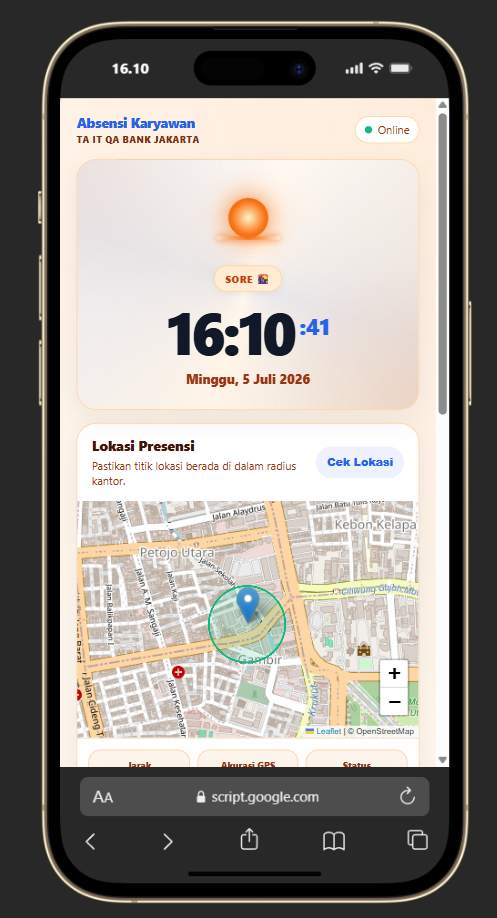
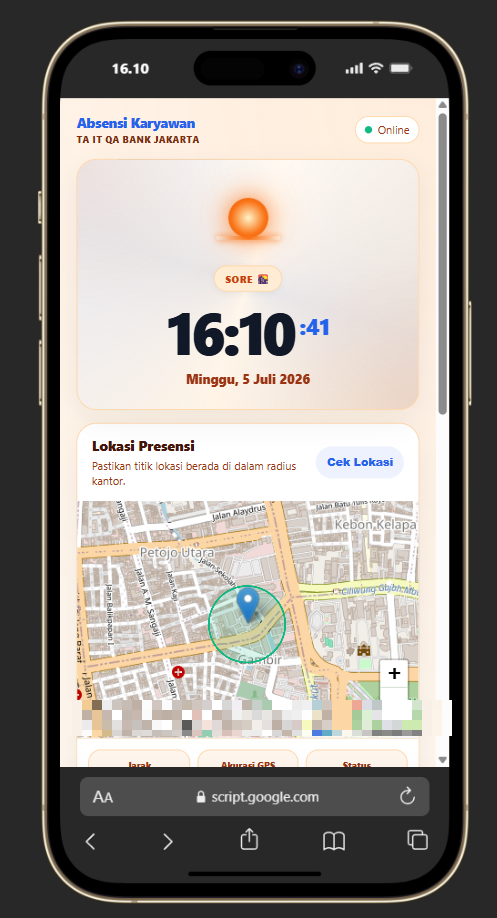
privacy: blur NRIK & email karyawan, update slider gambar Absensi baru

Changed region(s): [[0.1509, 0.7625, 0.8753, 0.8235], [0.9054, 0.7625, 0.9356, 0.793]]

diff --git a/index.html b/index.html
@@ -729,15 +729,13 @@
       <!-- Image Slider -->
       <div class="modal-slider" id="slider-pro-01">
         <div class="modal-slider-track">
-          <img src="images/Absensi-TAITQABankJakarta/Screenshot 2026-07-05 160719.png" alt="Absensi - Screen 1" class="slider-img active">
-          <img src="images/Absensi-TAITQABankJakarta/Screenshot 2026-07-05 160726.png" alt="Absensi - Screen 2" class="slider-img">
-          <img src="images/Absensi-TAITQABankJakarta/Screenshot 2026-07-05 160735.png" alt="Absensi - Screen 3" class="slider-img">
-          <img src="images/Absensi-TAITQABankJakarta/Screenshot 2026-07-05 160748.png" alt="Absensi - Screen 4" class="slider-img">
-          <img src="images/Absensi-TAITQABankJakarta/Screenshot 2026-07-05 161031.png" alt="Absensi - Dashboard" class="slider-img">
-          <img src="images/Absensi-TAITQABankJakarta/Screenshot 2026-07-05 161053.png" alt="Absensi - Screen 6" class="slider-img">
-          <img src="images/Absensi-TAITQABankJakarta/Screenshot 2026-07-05 161109.png" alt="Absensi - Screen 7" class="slider-img">
-          <img src="images/Absensi-TAITQABankJakarta/Screenshot 2026-07-05 161125.png" alt="Absensi - Screen 8" class="slider-img">
-          <img src="images/Absensi-TAITQABankJakarta/Screenshot 2026-07-05 161226.png" alt="Absensi - Screen 9" class="slider-img">
+          <img src="images/Absensi-TAITQABankJakarta/Screenshot 2026-07-05 183819.png" alt="Absensi - Dashboard Ringkasan" class="slider-img active">
+          <img src="images/Absensi-TAITQABankJakarta/Screenshot 2026-07-05 183844.png" alt="Absensi - Daftar Presensi" class="slider-img">
+          <img src="images/Absensi-TAITQABankJakarta/Screenshot 2026-07-05 183909.png" alt="Absensi - Kelola Karyawan" class="slider-img">
+          <img src="images/Absensi-TAITQABankJakarta/Screenshot 2026-[phone redacted].png" alt="Absensi - Mobile App" class="slider-img">
+          <img src="images/Absensi-TAITQABankJakarta/Screenshot 2026-07-05 161109.png" alt="Absensi - Screen 5" class="slider-img">
+          <img src="images/Absensi-TAITQABankJakarta/Screenshot 2026-07-05 161125.png" alt="Absensi - Screen 6" class="slider-img">
+          <img src="images/Absensi-TAITQABankJakarta/Screenshot 2026-07-05 161226.png" alt="Absensi - Screen 7" class="slider-img">
         </div>
         <button class="slider-btn slider-btn--prev" data-slider="slider-pro-01">&#8249;</button>
         <button class="slider-btn slider-btn--next" data-slider="slider-pro-01">&#8250;</button>